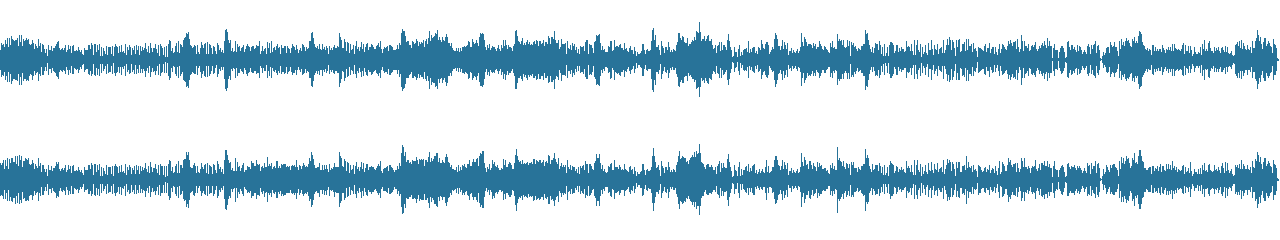
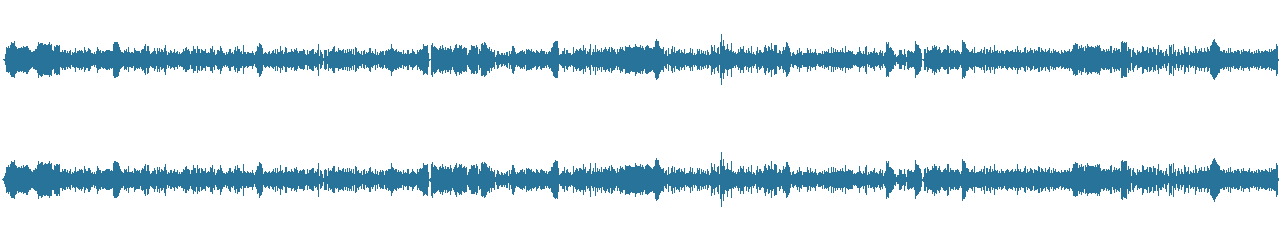
Fixed mp3s playing faster

Changed region(s): [[0.0, 0.1458, 1.0, 0.3792], [0.0, 0.7583, 1.0, 0.875], [0.0, 0.6417, 1.0, 0.7292]]

diff --git a/AudioPlayer.py b/AudioPlayer.py
@@ -36,7 +36,7 @@ class SoundPlayer(QRunnable):
         self.length = 0
         self.loop = False
         self.pixel_time_conversion_rate = 0
-        pygame.mixer.pre_init(48000, -16, 1, 512)
+        pygame.mixer.pre_init(44100, -16, 2, 512)
 
     def handle(self, result, conversion_rate):
         if not self.current_result == result or not self.get_busy():

diff --git a/LocalFileHandler.py b/LocalFileHandler.py
@@ -86,4 +86,4 @@ class LocalSearch(QRunnable):
             self.signals.finished.emit()
 
 
-add_to_index('C:\\Users\Josh\Downloads')
+add_to_index('D:\Audio Dramas\Focus on the Family')
